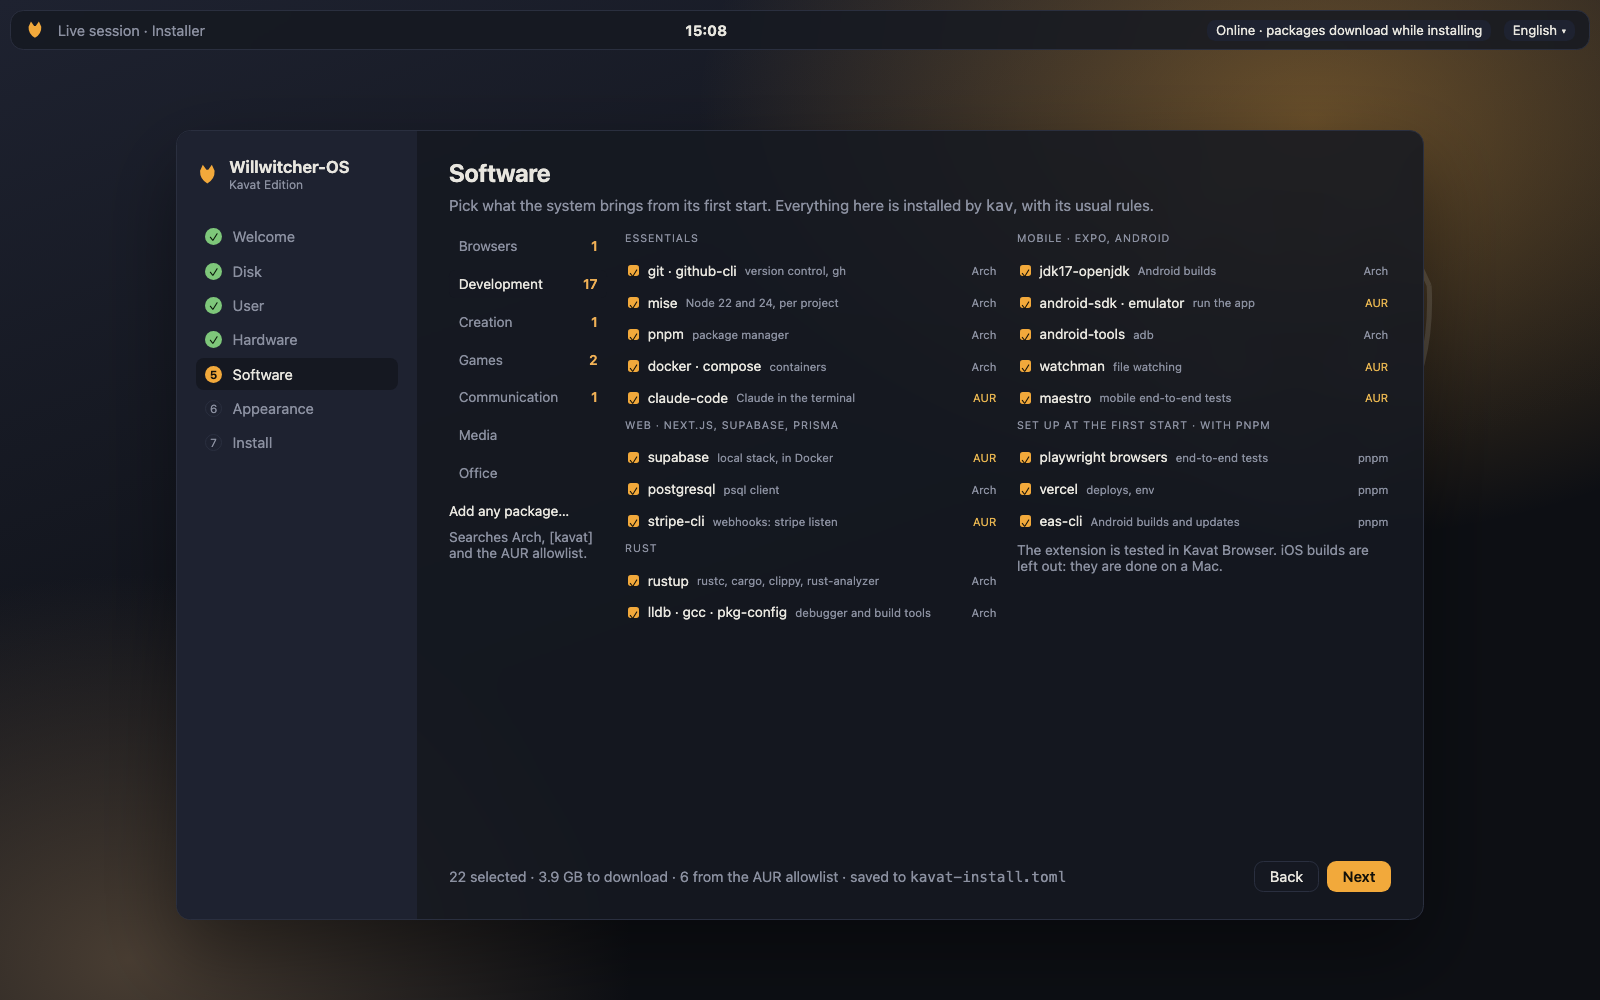
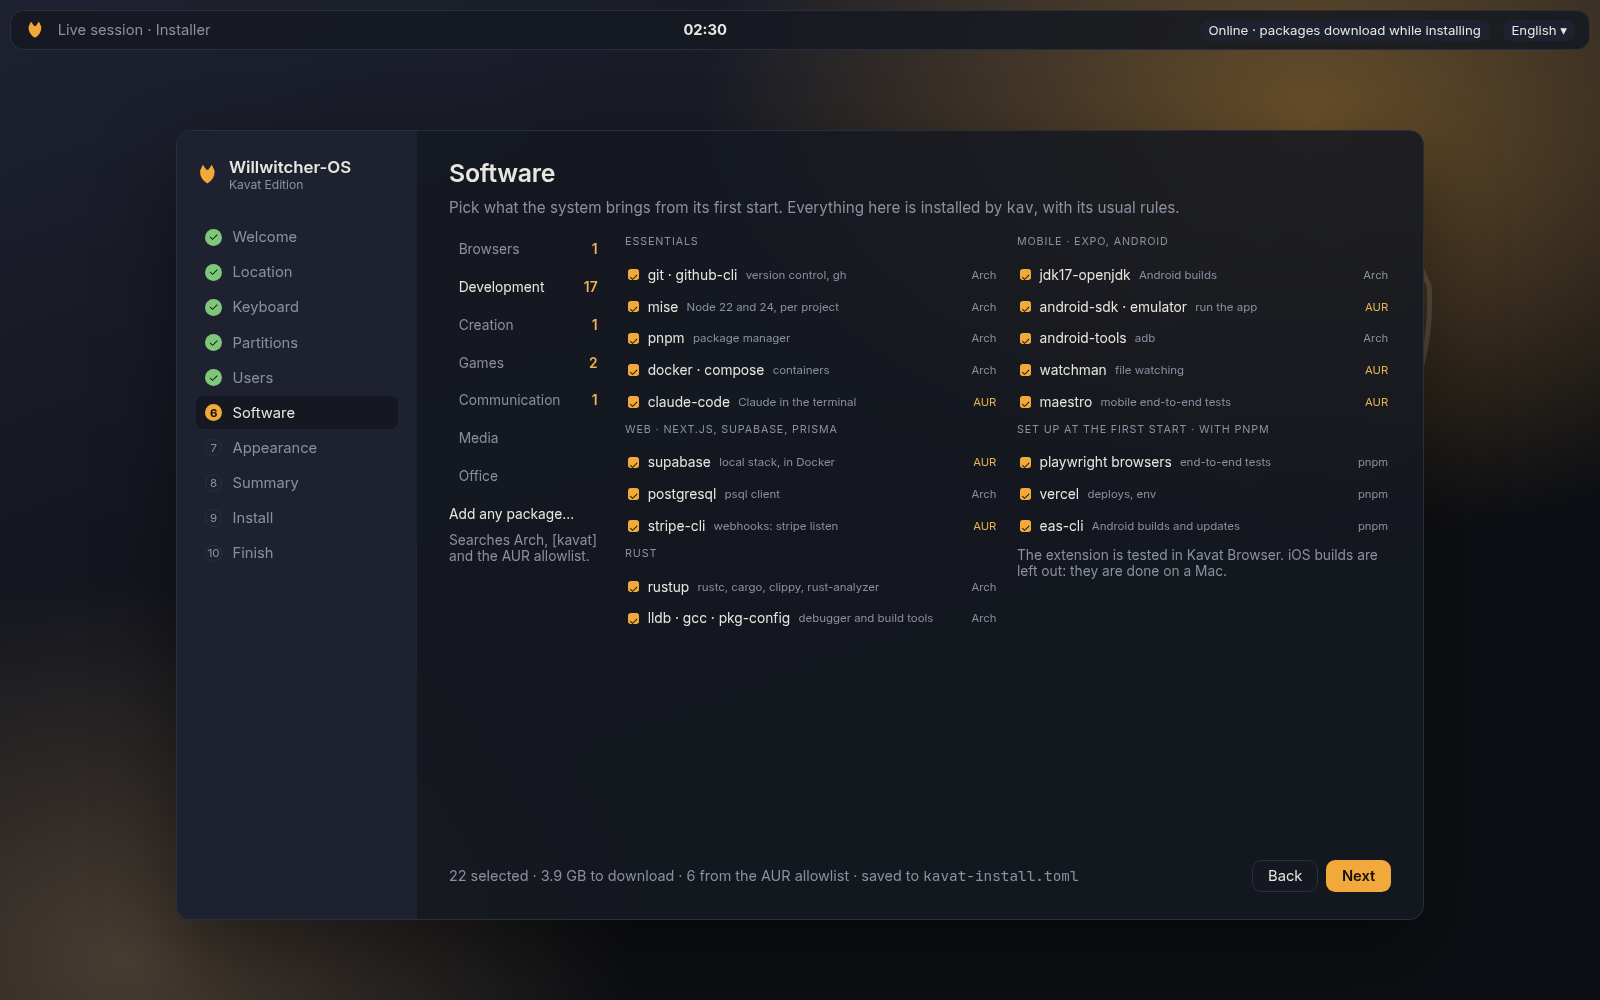
Design: the installer's nine steps (D43), fastfetch without a fork and btop forked in phase 4 (D42), covers from the network stay off (D41)

diff --git a/docs/mockup/index.html b/docs/mockup/index.html
@@ -517,6 +517,7 @@ body.lit:not(.bare) .monitor{animation:lit 1.15s ease-in-out infinite alternate}
 .step{display:flex;align-items:center;gap:.7em;padding:.5em .6em;border-radius:calc(var(--r)*.6);font-size:.92em;color:var(--muted)}
 .step i{width:1.5em;height:1.5em;border-radius:50%;border:.12em solid var(--border);display:grid;place-items:center;font-style:normal;font-size:.78em}
 .step.done i{background:var(--ok);border-color:transparent;color:#0c1a0c}
+.step.soft{display:none}.screen[data-istep=software] #cal .step.soft{display:flex}
 .step.on{background:var(--surface);color:var(--text)}.step.on i{background:var(--accent);border-color:transparent;color:#14110a;font-weight:700}
 .main{flex:1;padding:1.7em 2em;display:flex;flex-direction:column;gap:1.1em;min-width:0}
 .main h2{font-size:1.55em;font-weight:650;letter-spacing:-.01em}
@@ -1060,12 +1061,15 @@ body.lit:not(.bare) .monitor{animation:lit 1.15s ease-in-out infinite alternate}
       <div class="side">
         <div class="brand"><svg class="logo" viewBox="0 0 100 100" fill="currentColor"><path d="M18 34 L30 8 L46 30 H54 L70 8 L82 34 Q84 70 50 90 Q16 70 18 34Z"/></svg><div>Willwitcher-OS<small>Kavat Edition</small></div></div>
         <div class="step done"><i>✓</i>Welcome</div>
-        <div class="step done"><i>✓</i>Disk</div>
-        <div class="step done"><i>✓</i>User</div>
-        <div class="step done"><i>✓</i>Hardware</div>
-        <div class="step done"><i>✓</i>Software</div>
+        <div class="step done"><i>✓</i>Location</div>
+        <div class="step done"><i>✓</i>Keyboard</div>
+        <div class="step done"><i>✓</i>Partitions</div>
+        <div class="step done"><i>✓</i>Users</div>
+        <div class="step soft"><i>6</i>Software</div>
         <div class="step on"><i>6</i>Appearance</div>
-        <div class="step"><i>7</i>Install</div>
+        <div class="step"><i>7</i>Summary</div>
+        <div class="step"><i>8</i>Install</div>
+        <div class="step"><i>9</i>Finish</div>
       </div>
       <div class="main">
         <h2>Appearance</h2>
@@ -1201,7 +1205,7 @@ function apply(){
   screen_.dataset.notices=!!S.notices&&S.scene==='desk';screen_.dataset.calc=!!S.calc;
   screen_.dataset.ico=S.ico;$$('[data-ico]').forEach(b=>b.classList.toggle('on',b.dataset.ico===S.ico));
   document.body.classList.toggle('iscene',S.scene==='install');{const cur=S.istep!=='software'?'appearance':S.inet?'software':'offline';$$('[data-inst]').forEach(b=>b.classList.toggle('on',b.dataset.inst===cur))}
-  screen_.dataset.istep=S.istep;{const sw=S.istep==='software',cur=sw?4:5;$$('#cal .step').forEach((e,i)=>{e.className='step'+(i<cur?' done':i===cur?' on':'');e.firstElementChild.textContent=i<cur?'✓':i+1;});screen_.dataset.inet=S.inet;$$('.js-inet').forEach(e=>e.textContent=sw&&S.inet?'Online · packages download while installing':'No network · offline install')}
+  screen_.dataset.istep=S.istep;{const sw=S.istep==='software',cur=5;$$('#cal .step').filter(e=>sw||!e.classList.contains('soft')).forEach((e,i)=>{e.className='step'+(e.classList.contains('soft')?' soft':'')+(i<cur?' done':i===cur?' on':'');e.firstElementChild.textContent=i<cur?'✓':i+1;});screen_.dataset.inet=S.inet;$$('.js-inet').forEach(e=>e.textContent=sw&&S.inet?'Online · packages download while installing':'No network · offline install')}
   $$('.js-fmode').forEach(e=>e.textContent=inc?'Incognito':g?'Gamer':'Coder');
   $$('.js-bprofile').forEach(e=>e.textContent=inc?'Incognito':g?'Gamer':'Coder');
   $$('.js-btitle').forEach(e=>e.textContent=inc?'Kavat Browser · Incognito':'Kavat Browser');

diff --git a/docs/DESIGN.md b/docs/DESIGN.md
@@ -56,29 +56,34 @@ The forks (Hyprland, Kavat Shell) live in separate repos, and here there is only
 
 ## Installer
 
-Calamares with its own branding does the installation in 7 screens, and the base system installs without network. Calamares is not in the official Arch repos, so it is packaged as `kavat-calamares` in `[kavat]`.
+Calamares with its own branding does the installation in nine steps, and the base system installs without network. Calamares is not in the official Arch repos, so it is packaged as `kavat-calamares` in `[kavat]`.
 
 The default language is English, with Spanish as the second option in the selector. Both come already installed in the ISO and in the system, with the US keyboard by default. Everything of our own (installer, greeter, shell, `kav` and agent) ships its text in English, and only in English: you decided this on 13 November 2026.
 
-1. **Welcome**: language, keyboard and requirements check (UEFI, RAM, disk).
-2. **Disk**: erase everything, alongside another system, or manual. Btrfs and subvolumes already decided; encryption as a switch, off by default.
-3. **User**: name, password, host name.
-4. **Hardware**: detects the GPU and proposes drivers (NVIDIA, AMD, Intel) instead of asking blindly. On your machine, AMD with the free Mesa drivers, which already come in the ISO.
-5. **Software**: programs that are added to the base system, checked one by one by category, and whether the agent is installed with its model. It needs network; the details are below.
-6. **Appearance**: theme, light or dark mode and accent hue, with a live preview of the installer itself.
-7. **Summary and installation**: exact list of what is going to be done and a progress bar with slides.
+1. **Welcome**: language and requirements check (UEFI, RAM, disk).
+2. **Location**: region and time zone.
+3. **Keyboard**: `us` or `es`, with a place to try it.
+4. **Partitions**: erase everything, alongside another system, or manual. Btrfs and subvolumes already decided; encryption as a switch, off by default.
+5. **Users**: name, password, host name.
+6. **Appearance**: theme, light or dark mode and accent hue, with a live preview.
+7. **Summary**: exact list of what is going to be done.
+8. **Install**: a progress bar, with pictures of the system going by.
+9. **Finish**: restart, or stay in the live session.
+
+They are Calamares' own steps, one page for each of its modules: you decided on 15 November 2026 (D43) to keep them, instead of joining them into the seven this list had. The graphics driver is detected without asking, so there is no Hardware step. One more step comes later, between Users and Appearance:
+
+- **Software**: programs that are added to the base system, checked one by one by category, and whether the agent is installed with its model. It needs network; the details are below.
 
 **How it is built.** In `installer/`, and checked by `tests/install.py`. Decided on 14 November 2026, after you saw it on the PC: it has to look like the mockup, show the system while it installs, and have the Appearance step.
 
 - **The look** is Kavat's dark side. The steps down the left are drawn by `calamares-sidebar.qml`, with a check on the ones done and the number of the one in view in the accent; the pages Calamares draws itself take their colours from `stylesheet.qss`. The buttons are Calamares' own, so that `Alt` with a letter presses them from anywhere. The window floats in the middle of the screen, 1280 by 800.
 - **Appearance** is a page of the installer's own, `appearance.qml`: the palettes of `kavat-theme` as cards, the mode, the accents of the palette chosen, and a small desktop drawn with those colours. The `kavat-look` step writes what was chosen as the settings of the machine, `/etc/kavat/theme.toml`, before the boot loader's step: the boot menu, the loading screen and the login wear it, and every user starts from it.
 - **While it installs** it shows eight pictures of the system, one after another, each with a line that says what it is. They are the mockup's screenshots, copied to `installer/branding/kavat/slides/`.
-- **The steps are Calamares' own nine**, not the seven of the list above: Welcome, Location, Keyboard, Partitions, Users, Appearance, Summary, Install and Finish. Hardware and Software are not built.
-- **Left for later**: the Hardware and Software steps, the answer file, the top bar that says whether there is a network, and "Auto" and "From wallpaper" on the Appearance page.
+- **Left for later**: the Software step, the answer file, the top bar that says whether there is a network, and "Auto" and "From wallpaper" on the Appearance page.
 
 Our own ideas on top of stock Calamares:
 
-- **`kavat-theme` module**: what was chosen on screen 6 is applied to the greeter, to Plymouth and to the desktop before the first boot.
+- **`kavat-theme` module**: what was chosen on the Appearance step is applied to the greeter, to Plymouth and to the desktop before the first boot.
 - **`kavat-hardware` module**: writes the Hyprland configuration according to the monitors and GPU detected.
 - **Installation without network**: the ISO carries the packages of the base system; with network, it updates at the end and adds the chosen software.
 
@@ -234,7 +239,7 @@ Shortcuts: 19 inherited from Endgame as they are and 12 new ones for what did no
 - Our own additions: the settings panel, the agent panel, the theme picker with preview, the `kav` panel (updates, snapshots, AUR requests) and the first-run wizard.
 - Its color engine is fed from the system's tokens, so there is a single source of truth.
 - The first-run wizard it inherited is turned off: it chooses palette and mode on its own, which is the system theme's business. Whoever changes the theme from the shell's own settings leaves it out of sync with the rest; that page disappears when the settings panel covers it.
-- **It asks the network for nothing by itself** (D40, 14 November 2026). Noctalia's "Anonymous Startup Ping" was removed first, on 13 November: it sent the version, the system, the compositor, the resolutions, the RAM and the scale on every startup. Reading its log then showed more: on every start it fetched a catalogue of community palettes and one of templates, exchange rates for the launcher's calculator, and its two lists of plugins from GitHub, these again every six hours. All of it is off until you turn it on. Two things with no switch were taken out: the cover of what is playing and the icon of a notification are no longer fetched when they are an address on the network, since that address is chosen by another program; a cover that is a file is shown as before. What can still use the network, when you set it up: the calendar, the weather, your address on the network and your location, the plugin store, and a plugin that does.
+- **It asks the network for nothing by itself** (D40, 14 November 2026). Noctalia's "Anonymous Startup Ping" was removed first, on 13 November: it sent the version, the system, the compositor, the resolutions, the RAM and the scale on every startup. Reading its log then showed more: on every start it fetched a catalogue of community palettes and one of templates, exchange rates for the launcher's calculator, and its two lists of plugins from GitHub, these again every six hours. All of it is off until you turn it on. Two things with no switch were taken out: the cover of what is playing and the icon of a notification are no longer fetched when they are an address on the network, since that address is chosen by another program; a cover that is a file is shown as before. What can still use the network, when you set it up: the calendar, the weather, your address on the network and your location, the plugin store, and a plugin that does. The cover of what is playing and the picture of a notification are not fetched either when they are an address on the network: you decided on 15 November 2026 (D41) to leave it so.
 - **How it is built.** In `packages/kavat-shell/`: Noctalia 5.4.1 with Arch's recipe, two patches and a script. `no-ping.patch` removes the ping, its checkbox and its card in the assistant. `no-network.patch` turns off what was fetched by itself. `rename.py` gives it its name before it is built: the command is `kavat-shell`, its settings are in `~/.config/kavat-shell/`, its files in `/usr/share/kavat-shell/`, and its names on D-Bus and every text it shows say Kavat Shell. What keeps the old name on purpose: the code's own identifiers; the `noctalia.` functions that plugins call, so that a plugin written for Noctalia still runs; and the addresses of Noctalia's own plugin lists. `tests/theme.py` checks that it runs under its name, that the ping's address is not in it and that its log shows no request to the network after a start. The polkit password dialog is drawn by the shell: its agent comes turned on.
 
 **Command palette.** `Super+D` opens a single palette for the whole system: apps, files, settings, skills, packages, open windows and browser tabs. It uses the same grammar and the same command names as the browser's console and the Neovim palette, and what it does not find it can pass to the agent.
@@ -681,19 +686,19 @@ A clipping saves what you are looking at to a note:
 
 ## System information and monitor
 
-Two terminal tools become pieces of the system, each with its fork: the one that shows what machine this is and the one that shows what is running.
+Two terminal tools become pieces of the system: the one that shows what machine this is and the one that shows what is running. You decided on 15 November 2026 (D42) that the first needs no fork, and that the second is forked in phase 4, when there is an agent for it to ask.
 
-**System information (`kavat-fetch`).** It is a fork of fastfetch. It starts from fastfetch and not from neofetch because neofetch has been archived since 2024 and fastfetch is the one that is maintained.
+**System information (`kavat-fetch`).** It is fastfetch as Arch packages it, with a settings file the theme writes: everything below is done from that file, where a line can be what a command prints. It starts from fastfetch and not from neofetch because neofetch has been archived since 2024 and fastfetch is the one that is maintained.
 
 - **Its own logo**: the Kavat cat goes inside the program. In Kitty it is drawn as an image, with its graphics protocol; outside Kitty the character one comes out, in the accent color. There is a small version and it can be removed.
 - **The information you choose**: the lines and their order are chosen in the panel or in the file. Out of the box: system, kernel, window manager, shell, theme, mode, packages, GPU, agent and health.
-- **Lines from the system itself**: the active theme and mode, the packages counted by `kav` with the ones that come from the AUR, and the state of the agent. They are new modules, and that is what justifies the fork.
+- **Lines from the system itself**: the active theme and mode, the packages counted by `kav` with the ones that come from the AUR, and the state of the agent. They are lines that run a command.
 - **Health line**: the pending updates and the warnings from `kav doctor`, read from the last thing `kav` saved so as not to slow it down.
 - **Theme colors**: it takes the tokens from the theme system and changes with it, like the rest.
 - **Optional greeting**: a three-line version when the first terminal of the session opens. It comes turned off.
 - **How it is launched**: with `kavat fetch`. Its configuration lives in `~/.config/fastfetch/config.jsonc` and is adjusted on the Terminal page of the panel.
 
-**System monitor (`kavat-top`).** It is a fork of btop, which you already used in Endgame. It is forked because what is asked of it does not fit in its configuration: asking the agent about a process and grouping the processes by what they are.
+**System monitor (`kavat-top`).** It is a fork of btop, which you already used in Endgame; until phase 4 it is btop itself, in the theme's colours. It is forked because what is asked of it does not fit in its configuration: asking the agent about a process and grouping the processes by what they are.
 
 - **System theme**: its colors come from the tokens and change live with the theme.
 - **Ask Kavat**: with `K` on a process, the agent explains what it is, who started it and why it uses what it uses, and proposes what to do. It uses the read tool `system.processes`; if what it proposes changes something, it goes through the usual permissions.
@@ -706,13 +711,13 @@ Two terminal tools become pieces of the system, each with its fork: the one that
 - **Warning when something runs away**: if a process has been eating the CPU or the memory for minutes, a discreet notice comes up that opens the monitor on that process. It stays quiet in Gamer mode.
 - **How it is launched**: with `kavat top` or from the launcher. Its configuration lives in `~/.config/btop/btop.conf` and is adjusted on the Terminal page of the panel.
 
-The two forks follow the rule of the others: they are small and carry their `PATCHES.md`.
+The fork of btop follows the rule of the others: it is small and carries its `PATCHES.md`.
 
-**How it is built.** Since phase 3, in `packages/kavat-shell-config/` and in two templates of the theme. This is the first part, and it is not forks yet:
+**How it is built.** Since phase 3, in `packages/kavat-shell-config/` and in two templates of the theme. This is the first part:
 
 - **`kavat-fetch`** is fastfetch, unchanged, run with the file `kavat-theme` writes: the cat in characters, in the accent, and the system, the kernel, the window manager, the shell, the terminal, the theme with its mode, the packages, the processor, the graphics card, the memory and the disk. A `~/.config/fastfetch/config.jsonc` of your own is used in its place.
 - **`kavat-top`** is btop, unchanged, with a colour theme `kavat-theme` writes, `kavat`. The first time it is run it tells btop to use that theme; from then on btop's settings are yours. btop reads its theme when it opens, so an open one keeps its colours until it is opened again.
-- **Left for later**: the forks themselves and all they are for: the cat as an image, the agent and health lines, asking Kavat about a process, the groups, the GPU box, the services, the history and the warning.
+- **Left for later**: in `kavat-fetch`, the cat as an image and the agent and health lines; and the fork of btop with all it is for: asking Kavat about a process, the groups, the GPU box, the services, the history and the warning.
 
 ## Package manager
 

diff --git a/docs/PENDING.md b/docs/PENDING.md
@@ -12,43 +12,13 @@ Only what waits for your decision is here. Everything else lives in the [design 
 
 ## Summary
 
-| # | Decision | Recommendation |
-| --- | --- | --- |
-| D41 | Album covers and pictures in notifications that come from the network are no longer shown | Leave it so; a switch if you miss them |
-| D42 | `kavat-fetch` and `kavat-top` without forks | fastfetch without a fork for good; btop forked in phase 4, with the agent |
-| D43 | The installer has Calamares' nine steps, not the seven of the design | Keep the nine |
+There are no pending decisions.
 
-## D41 · Covers and pictures from the network
+Settled on 15 November 2026:
 
-With D40 the shell stopped fetching anything by itself. Two things went with that, and you have not said whether you want them back:
-
-- **The cover of what is playing.** A player gives the shell the address of the cover. When that address is on the network, as with Spotify or a browser, the bar's media widget now shows no cover. A cover that is a file on the disk is still shown.
-- **The picture of a notification** that comes as an address on the network, which a few chat apps send.
-
-**Recommendation: leave it so.** It is what "asks the network for nothing" means, and the address of a cover tells a server what you are listening to. If you miss the covers when you try it, it becomes a switch on the Bar & widgets page, "Fetch covers from the network", off as it comes.
-
-**If you say no**, the shell fetches both again, as Noctalia did.
-
-## D42 · `kavat-fetch` and `kavat-top` without forks
-
-The design says both are forks. They are built without one: fastfetch and btop as Arch packages them, each with a file `kavat-theme` writes.
-
-- **fastfetch needs no fork.** The cat as its logo, the lines you choose, the colours of the theme, and the lines of the system itself (the theme and its mode, the packages with those from the AUR) are all done from its settings file: a line can be the output of a command. What is left for a fork is the cat as an image in Kitty, which its settings also allow.
-- **btop does need one** for what the design asks: asking Kavat about a process, the groups, the box of the GPU with the agent's share, the services. All of it leans on the agent or on `kavatd`, which are phase 4.
-
-**Recommendation: fastfetch stays without a fork for good, and the design says so; btop is forked in phase 4**, when there is an agent to ask. Until then it is btop with the theme's colours.
-
-**If you say no**, both are forked now: two more programs to build and keep up to date, with nothing to show for it in phase 3.
-
-## D43 · The installer's steps
-
-The design lists seven steps: language and keyboard, network, disk, user, hardware, appearance, summary. What is built has Calamares' own nine: Welcome, Location, Keyboard, Partitions, Users, Appearance, Summary, Install, Finish.
-
-The difference is that Calamares has a page for each of its modules, and joining two of them in one page, or adding Network and Hardware, means writing those pages from nothing, as the Appearance one was.
-
-**Recommendation: keep the nine**, and the design's list is changed to them. Hardware (the graphics driver) is detected without asking, and the network is not needed to install. The mockup's installer is redrawn with the nine steps.
-
-**If you say no**, the pages are written to match the seven: about as much work as the whole installer look was.
+- **D41**, covers and pictures that come from the network: left as it is, not fetched.
+- **D42**, `kavat-fetch` and `kavat-top` without forks: fastfetch stays without a fork for good; btop is forked in phase 4, with the agent.
+- **D43**, the installer's steps: Calamares' own nine are kept, and the design and the mockup list them.
 
 Settled on 14 November 2026:
 

diff --git a/README.md b/README.md
@@ -183,7 +183,7 @@ A settings panel inside the shell configures the whole core, on twenty-six pages
 - **Kitty and zsh**, with a starship prompt cut down to what costs no time: opening a terminal goes unnoticed.
 - **One command palette.** `Super+D` searches apps, files, settings, skills, packages, windows and browser tabs, works out sums and unit conversions, with the same commands as the browser console and Neovim.
 - **Projects.** A project saves a whole workspace (folder, terminals, editor, browser profile, window layout) and brings it back as you left it.
-- **System info with its own face.** `kavat fetch` is a fork of fastfetch: the Kavat cat as its logo, the lines you choose, the colours of your theme. In Kitty the logo is an image, and a health line shows pending updates and `kav doctor` notices.
+- **System info with its own face.** `kavat-fetch` is fastfetch with the system's own settings: the Kavat cat as its logo, the lines you choose, the colours of your theme. In Kitty the logo is an image, and a health line shows pending updates and `kav doctor` notices.
 - **A monitor that knows the system.** `kavat top` is a fork of btop: processes grouped by what they belong to, the agent's share of the GPU in sight, and `K` asks Kavat what a process is and why it is busy. It also lists failed services with their log, keeps 24 hours of history, and warns when a process runs away.
 - **One `kavat` command.** `kavat theme`, `mode`, `wallpaper`, `project`, `ask`, `fetch`, `top`, `doctor`: everything the panel does, from the terminal.
 - **The shortcuts you already know**, inherited from Willwitcher-OS Endgame, plus `Super+Space` for Kavat.
